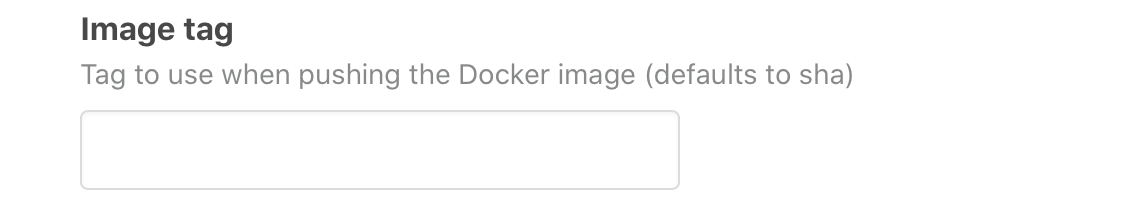
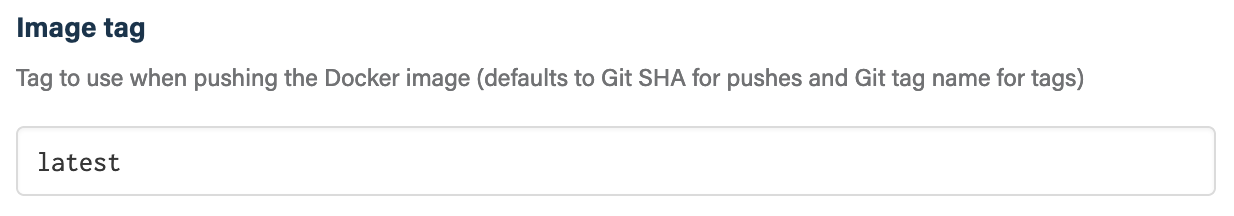
Update documentation
Reorganize documentation into README, INFO, and SETTINGS.

diff --git a/README.md b/README.md
@@ -1,128 +1,81 @@
 # `atomist/docker-build-skill`
 
-<!---atomist-skill-description:start--->
+Build Docker images and push them to a Docker registry.
 
-Build Docker images and push them to a Docker registry
+:sparkles: [_**View this skill in the Atomist Skills Catalog**_][atomist-skill]
+to enable this skill on your repositories. :sparkles:
 
-<!---atomist-skill-description:end--->
+See the [Atomist website][atomist] for general information about Atomist Skills
+and the [Atomist documentation site][atomist-doc] for instructions on how to get
+started using Atomist Skills.
 
----
+[atomist-skill]:
+    https://go.atomist.com/catalog/skills/atomist/docker-build-skill
+    "Atomist Skills Catalog - Automate All Your Software Tasks"
+[atomist-doc]: https://docs.atomist.com/ "Atomist Documentation"
 
-<!---atomist-skill-long_description:start--->
+## Contributing
 
-Automatically build and push Docker images on pushes to Git repositories.
+Contributions to this project from community members are encouraged and
+appreciated. Please review the [Contributing Guidelines](CONTRIBUTING.md) for
+more information. Also see the [Development](#development) section in this
+document.
 
-This skill takes the hard and cumbersome task setting up a working
-`docker build` process away. Simply add this skill to your workspace and
-configure a Docker registry to push and you are ready to build your images.
+## Code of conduct
 
-<!---atomist-skill-long_description:end--->
+This project is governed by the [Code of Conduct](CODE_OF_CONDUCT.md). You are
+expected to act in accordance with this code by participating. Please report any
+unacceptable behavior to code-of-conduct@atomist.com.
 
----
+## Connect
 
-<!---atomist-skill-readme:start--->
+Follow [@atomist][atomist-twitter] on Twitter and [The Atomist
+Blog][atomist-blog].
 
-# What it's useful for
+[atomist-twitter]: https://twitter.com/atomist "Atomist on Twitter"
+[atomist-blog]: https://blog.atomist.com/ "The Atomist Blog"
 
-With this skill you can automatically build Docker images and push them to a
-Docker registry. The Docker build is triggered by a push to a Git repository.
+## Support
 
-This skill addresses the cumbersome task of setting up a working `docker build`
-process. Simply add this skill to your workspace and configure a Docker registry
-to push to and you are ready to build your images. Super simple!
+General support questions should be discussed in the `#support` channel in the
+[Atomist community Slack workspace][slack].
 
-# Before you get started
+If you find a problem, please create an [issue](../../issues).
 
-Connect and configure these integrations:
+## Development
 
-1. **GitHub**
-2. **Docker Registry**
-3. **Slack**
+You will need to install [Node.js][node] to build and test this project.
 
-The **GitHub** integration must be configured in order to use this skill. At
-least one repository must be selected. The **Docker Registry** integration must
-also be configured in order to use this skill. At least one registry must be
-configured to push your images to. We recommend connecting the **Slack**
-integration.
+[node]: https://nodejs.org/ "Node.js"
 
-# How to configure
+### Build and test
 
-1. **Select a Docker registry to push to**
+Install dependencies.
 
-    ![Docker Registry](docs/images/docker-push-registry.png)
+```
+$ npm ci
+```
 
-    First connect at least one Docker registry from **Manage -> Integrations**.
-    Once connected you can then select a registry to push to.
+Use the `build` package script to compile, test, lint, and build the
+documentation.
 
-1. **Select Docker registries to pull from**
+```
+$ npm run build
+```
 
-    ![Docker Pull Registry](docs/images/docker-pull-registries.png)
+### Release
 
-    Occasionally you may want to pull private base images from a different
-    registry. Use the **Docker registries to pull from** parameter to configure
-    those additional registries.
+Releases are created by pushing a release [semantic version][semver] tag to the
+repository, Atomist Skills take care of the rest.
 
-1. **Select the trigger for running this skill**
+To make this skill globally available, set its maturity to "stable" via the set
+maturity drop-down in its Atomist Community Slack channel.
 
-    This skill can build Docker images on Git push or tag events. Use this
-    parameter to configure the trigger.
-
-1. **Specify the name of the image**
-
-    ![Docker Image Name](docs/images/docker-image-name.png)
-
-    Provide the name of the Docker image to create. If not provided this
-    defaults to the name of repository.
-
-1. **Specify the tag to create**
-
-    ![Docker Image Tag](docs/images/docker-image-tag.png)
-
-    Specify the Docker image tag to create. If not provided this defaults to Git
-    SHA of the commit that was pushed or the name of the Git tag.
-
-1. **Specify the path to the Dockerfile**
-
-    ![Dockerfile Path](docs/images/dockerfile-path.png)
-
-    Path to the Dockerfile to use for building the image. This defaults to
-    `./Dockerfile`.
-
-    The path is relative to the root of the repository.
-
-1. **Determine repository scope**
-
-    ![Repository filter](docs/images/repo-filter.png)
-
-    By default, this skill will be enabled for all repositories in all
-    organizations you have connected.
-
-    To restrict the organizations or specific repositories on which the skill
-    will run, you can explicitly choose organization(s) and repositories.
-
-# How to use Docker Build
-
-1. **Configure the skill, providing at least a Docker registry to push to**
-
-2. **For every new Git push, a new Docker image will be built**
-
-    When the optional **Slack** integration is configured, you'll see a progress
-    message in the Slack channel that is linked to the repository.
-
-    ![Slack Progress](docs/images/slack-progress.png)
-
-3. **Enjoy not having to manually set up a Docker build and push pipeline!**
-
-To create feature requests or bug reports, create an
-[issue in the repository for this skill](https://github.com/atomist-skills/docker-build-skill/issues).
-See the [code](https://github.com/atomist-skills/docker-build-skill) for the
-skill.
-
-<!---atomist-skill-readme:end--->
+[semver]: https://semver.org/ "Semantic Version"
 
 ---
 
 Created by [Atomist][atomist]. Need Help? [Join our Slack workspace][slack].
 
-[atomist]: https://atomist.com/ "Atomist"
+[atomist]: https://atomist.com/ "Atomist - Automate All the Software Things"
 [slack]: https://join.atomist.com/ "Atomist Community Slack"

diff --git a/SETTINGS.md b/SETTINGS.md
@@ -1,0 +1,105 @@
+## Before you get started
+
+Connect and configure these integrations:
+
+1.  [**GitHub**](https://go.atomist.com/catalog/integration/github "GitHub Integration")
+    _(required)_
+2.  [**Docker Registry**](https://go.atomist.com/catalog/integration/docker-hub "Docker Hub Registry")
+    _(required)_
+3.  [**Slack**](https://go.atomist.com/catalog/integration/slack "Slack Integration")
+    or
+    [**Microsoft Teams**](https://go.atomist.com/catalog/integration/microsoft-teams "Microsoft Teams Integration")
+    _(optional)_
+
+## How to configure
+
+1.  **Select a Docker registry to push to**
+
+    ![Docker registry](docs/images/docker-push-registry.png)
+
+    First connect at least one Docker registry from **Manage -> Integrations**.
+    Once connected you can then select a registry to push to.
+
+1.  **Select Docker registries to pull from**
+
+    ![Docker pull registry](docs/images/docker-pull-registries.png)
+
+    Occasionally you may want to pull private base images from a different
+    registry. Use the **Docker registries to pull from** parameter to configure
+    those additional registries.
+
+1.  **Select the trigger for running this skill**
+
+    ![Docker build trigger](docs/images/trigger.png)
+
+    This skill can build Docker images on Git push or tag events. Use this
+    parameter to configure the trigger.
+
+1.  **Specify the name of the image**
+
+    ![Docker image name](docs/images/docker-image-name.png)
+
+    Provide the name of the Docker image to create. If not provided this
+    defaults to the name of repository.
+
+1.  **Specify the tag to create**
+
+    ![Docker image tag](docs/images/docker-image-tag.png)
+
+    Specify the Docker image tag to create. If not provided the default depends
+    on how the build was triggered. If the build was triggered on a push, the
+    default tag is the git SHA of the commit at the head of the push. If the
+    build was triggered by a tag, the default tag is the name of the Git tag.
+
+1.  **Specify the path to the Dockerfile**
+
+    ![Dockerfile path](docs/images/dockerfile-path.png)
+
+    Path to the Dockerfile to use for building the image. This defaults to
+    `./Dockerfile`.
+
+    The path is relative to the root of the repository.
+
+1.  **Create GitHub commit check**
+
+    ![GitHub commit check](docs/images/github-check.png)
+
+    If selected, a GitHub check will be added to the commit indicating whether
+    the build succeeded for failed.
+
+1.  **Extra kaniko arguments**
+
+    ![kaniko arguments](docs/images/kaniko-args.png)
+
+    If your Docker build requires special arguments to
+    [kaniko](https://github.com/GoogleContainerTools/kaniko/blob/master/README.md#additional-flags "kaniko command-line arguments"),
+    you can provide them here.
+
+    You can also use this argument to create additional image tags. For example,
+    to add the "latest" tag to all images created by builds triggered by a tag,
+    you can add this kaniko argument:
+
+        --destination=${data.Tag[0].commit.repo.owner}/${data.Tag[0].commit.repo.name}:latest
+
+    Similarly, to add the "next" tag to all images created by builds triggered
+    by a push of commits, you can add this kaniko argument:
+
+        --destination=${data.Push[0].repo.owner}/${data.Push[0].repo.name}:next
+
+    In both of the above examples, we use data from the event that triggered the
+    Docker build to provide the image repository and name.
+
+1.  **Determine repository scope**
+
+    ![Repository filter](docs/images/repo-filter.png)
+
+    By default, this skill will be enabled for all repositories in all
+    organizations you have connected.
+
+    To restrict the organizations or specific repositories on which the skill
+    will run, you can explicitly choose organizations and repositories.
+
+1.  **Activate the skill**
+
+    Save your configuration and activate the skill by clicking the "Enable
+    skill" button.

diff --git a/INFO.md b/INFO.md
@@ -1,0 +1,34 @@
+Creating consistent, reliable Docker builds across all your repositories can be
+a pain. This skill greatly simplifies that process by standardizing your Docker
+build configuration across all your repositories. No more hacky build scripts
+copied from repository to repository, no more enabling builds one at a time, no
+more setting up a Docker daemon and environment variables, just consistent,
+reliable Docker builds every time. All you have to worry about if your
+Dockerfile.
+
+This skill uses
+[kaniko](https://github.com/GoogleContainerTools/kaniko#readme "kaniko - Build Images In Kubernetes")
+to build container images from your Dockerfiles and push them to your Docker
+registry. Container image builds can be triggered by pushes of commits and/or
+tags to a GitHub repository. The code associated with the commit or tag is
+checked out and the container image is built using the Dockerfile. Once the
+build is complete, the container image is pushed to your configured Docker
+registry.
+
+-   Reliable, consistent builds on every push
+-   Pull and push container images from multiple Docker registries
+-   Automatic image naming and tag creation
+-   Easily customize the Docker build to your needs
+-   GitHub commit check indicates success of failure of build
+
+### Build Docker images on every push
+
+![Docker build on push](docs/images/docker-build.png)
+
+### Push Docker images to Docker Hub
+
+![Push images to Docker Hub](docs/images/docker-hub.png)
+
+### GitHub commit check
+
+![GitHub commit check](docs/images/github-commit-check.png)
